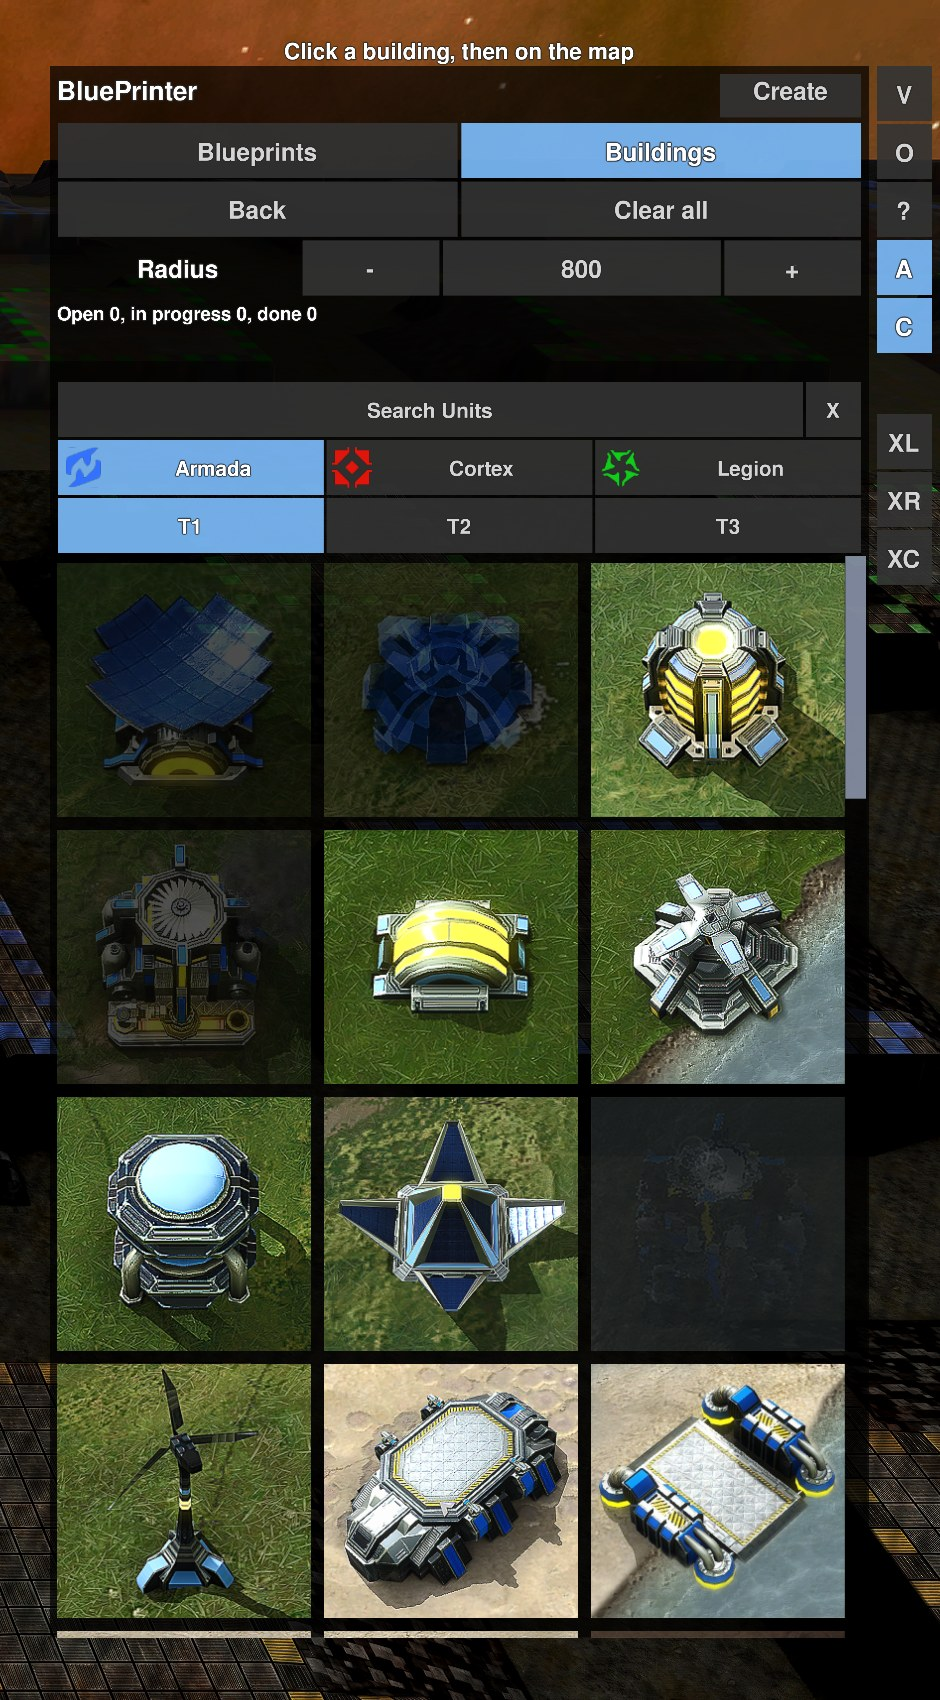
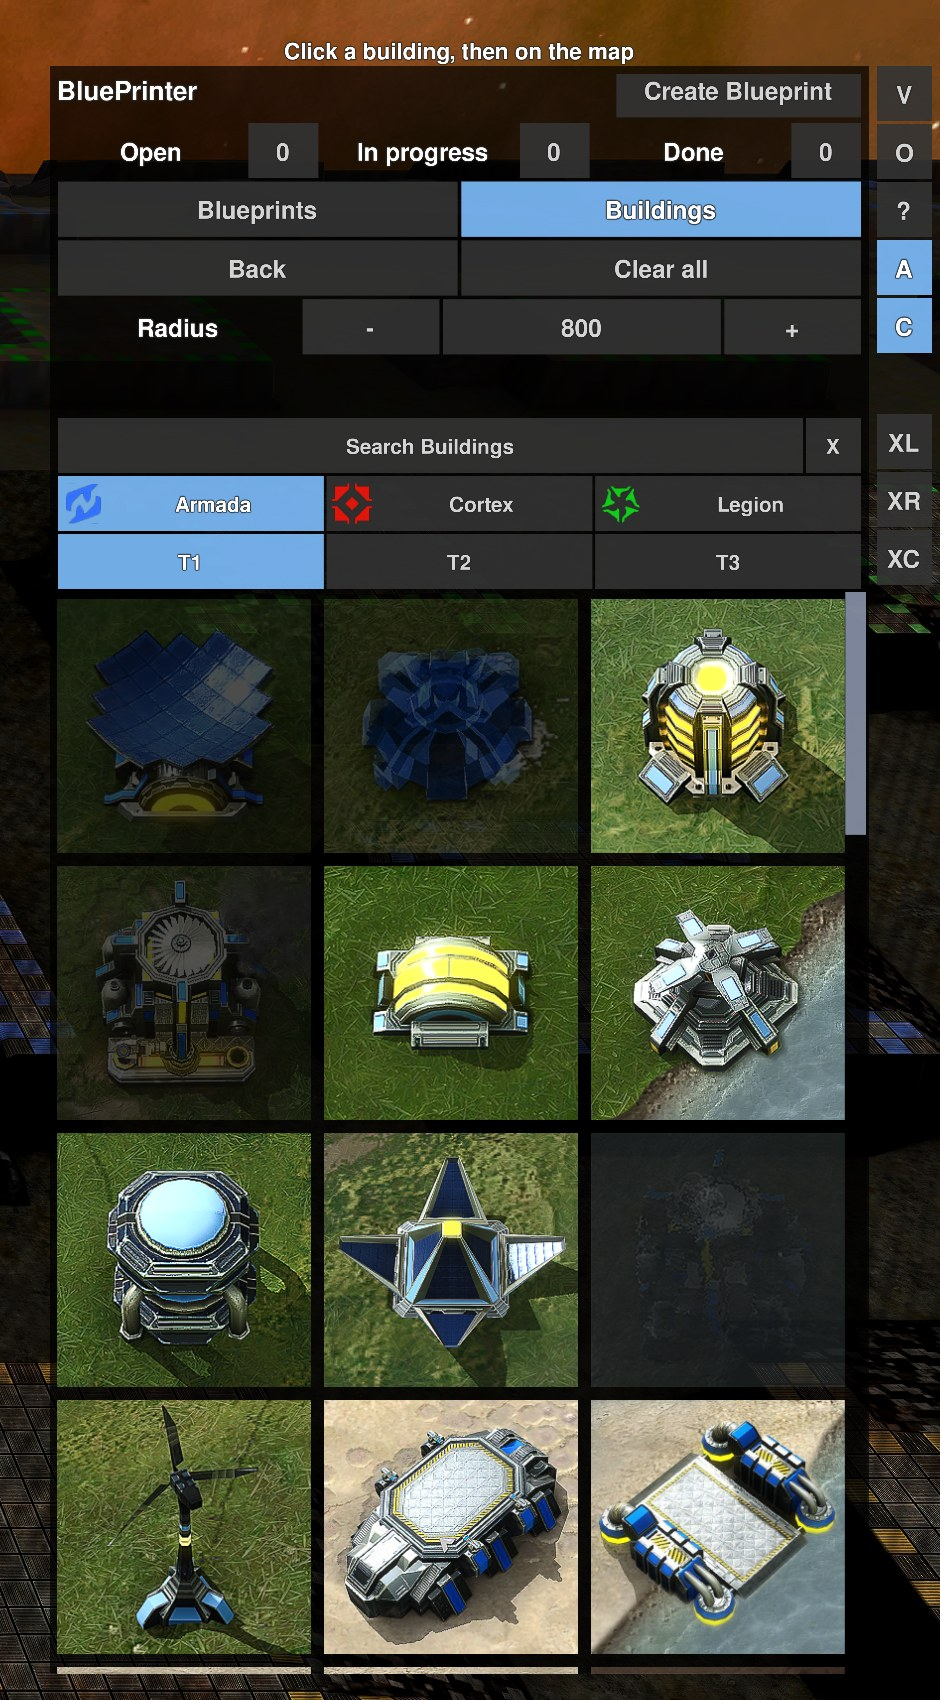
BluePrinter docs: status row, Create Blueprint and new screenshots

diff --git a/BluePrinter/SPECIFICATION.md b/BluePrinter/SPECIFICATION.md
@@ -34,12 +34,13 @@ Shared code: `..\shared\editor_common.lua` (see `..\shared\SPECIFICATION.md`). S
 ## 4. Interface
 
 ### 4.1 Panel
-- Position: right (default) or left (chat command `/bp_side left|right`; there is no button for it), top edge at 90 % of the screen height. Width at least 270·S, at most 60 % of the screen. Bottom edge at most at 5 % of the screen height, in the buildings view at least 190·S (the info lines are below).
+- Position: right (default) or left (chat command `/bp_side left|right`; there is no button for it), top edge at 90 % of the screen height. Width at least 600·S, at most 60 % of the screen. Bottom edge at most at 5 % of the screen height, in the buildings view at least 190·S (the info lines are below).
 - The menu is visible at the start and scales with the screen height and the UI size slider (`ui_scale`), see shared/SPECIFICATION.md.
 - Structure from the top: title "BluePrinter"; the buttons **V** (collapse/expand the menu: one click hides everything except the V, a second brings it back), **O** (settings), **?** (help), **A** (Auto-build on/off, default on) and **C** (commanders help build yes/no, default yes) and the experimental area attacks **XL** (line), **XR** (rectangle) and **XC** (circle) stand in a **column at the screen edge next to the menu** (one button of free space between C and the area attacks), one below the other, as in the Level Editor (all buttons use `Shared.drawButtons` with the height `HB` and font 26·S of the editor). Mode row **Blueprints | Buildings**, then the button rows:
+  0. **Status row** above the mode buttons: **Open** [number], **In progress** [number], **Done** [number] (label and a dark number box each, like the radius row; a label that does not fit shrinks)
   1. **Back** | **Clear all**
   2. **Radius** | **-** | input field | **+**: the field shows the current radius; click it, type a number (digits only, up to 5), Enter accepts, Esc cancels, a click elsewhere accepts; the value is limited to 200–6000. **-** and **+** change it in steps of 200 and the number follows at once.
-  Every button of the column has a tooltip (A and C also show the current state). There are no buttons for rotating and for the side of the menu (keys `[` `]`, Alt + mouse wheel and the chat commands `/bp_rotate`, `/bp_side` remain). After that the status lines ("Open N, in progress N, done N", "<hint>" (the rotation is visible in the 3D preview at the mouse pointer) and the "Remaining: …" line) and the content (grid or catalog). Active switches are light blue.
+  Every button of the column has a tooltip (A and C also show the current state). There are no buttons for rotating and for the side of the menu (keys `[` `]`, Alt + mouse wheel and the chat commands `/bp_rotate`, `/bp_side` remain). Order from the top: title with **Create Blueprint** at the right, status row, mode row, rows 1 and 2, then the lines "Left click = queue" (only while a stamp is armed; the rotation is visible in the 3D preview at the mouse pointer) and "Remaining: …", then the content (grid or catalog). Active switches are light blue.
 
 ### 4.2 Mode "Blueprints"
 - Grid as in the shared code (section 8 there): thumbnails with unit pictures, grows from top to bottom up to 3 columns × 4 rows (adjustable), after that the mouse wheel scrolls (234·S per notch, that is three times the speed plus 30 %).

diff --git a/BluePrinter/README.md b/BluePrinter/README.md
@@ -32,7 +32,7 @@ units in a blueprint are skipped. The team in the blueprint does not matter, it 
 - The small button **O** at the top right opens the settings: columns and rows of the grid (default 3 and 4) with - and +. They are stored in `LuaUI\Config\BluePrinterUI.lua` in the game folder.
 - Drag a tile with the mouse button held down = sort (a yellow mark shows the place, the order is remembered).
   Double click on the name = rename (type, Enter accepts, Esc cancels).
-- Ctrl+Alt+P (or `/bp_create`) = same as the button **Create** at the top right of the title row.
+- Ctrl+Alt+P (or `/bp_create`) = same as the button **Create Blueprint** at the top right of the title row.
 - Button **Create**: the selected buildings are saved as `bp_001`, `bp_002` ... in `BluePrinter\blueprints`
   and made ready for placing right away.
 - When placing, the widget shows the 3D models of the buildings in addition to the frames (semi-transparent, for large blueprints the 150 closest to the center). With `/bp_ghost` you check the mode (`gl` or `wg`, if the models are missing).
